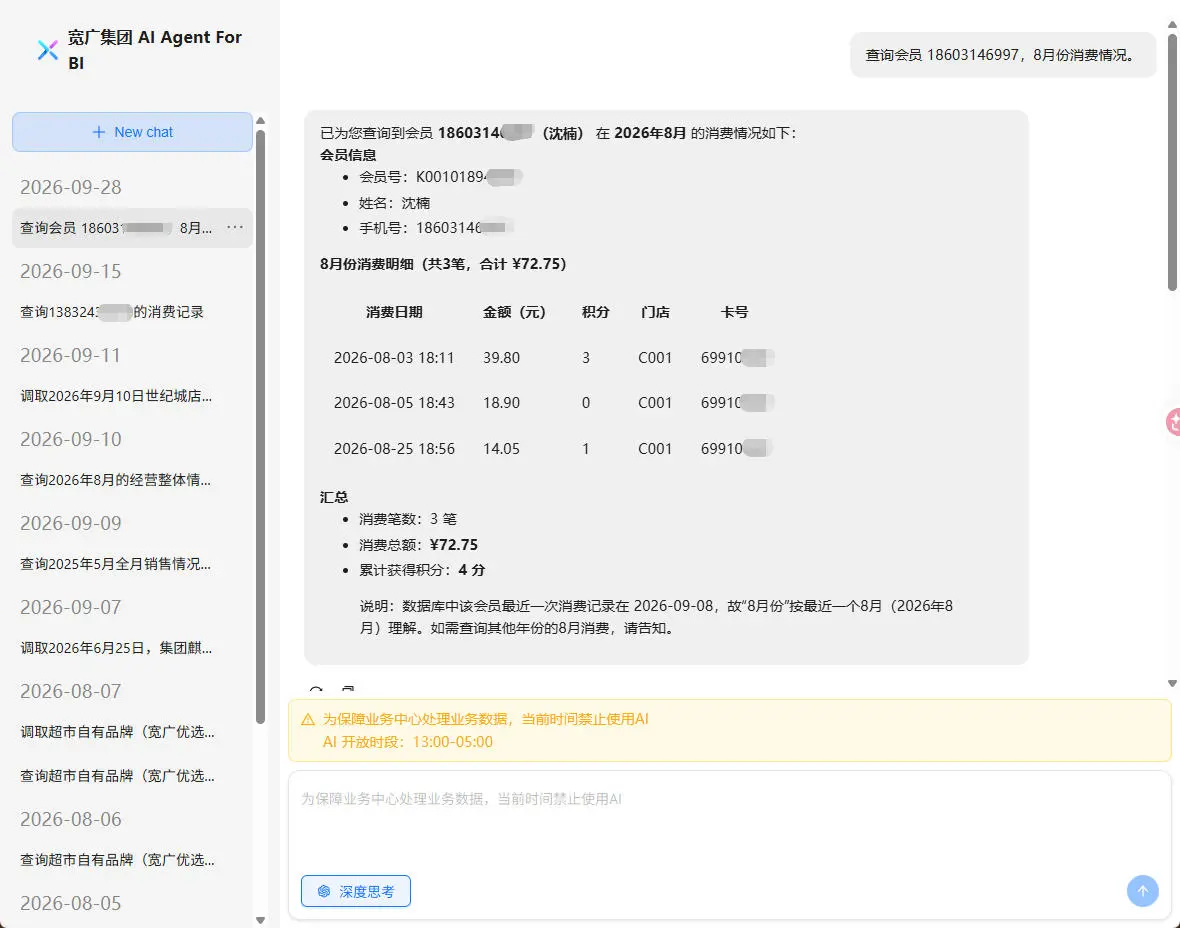
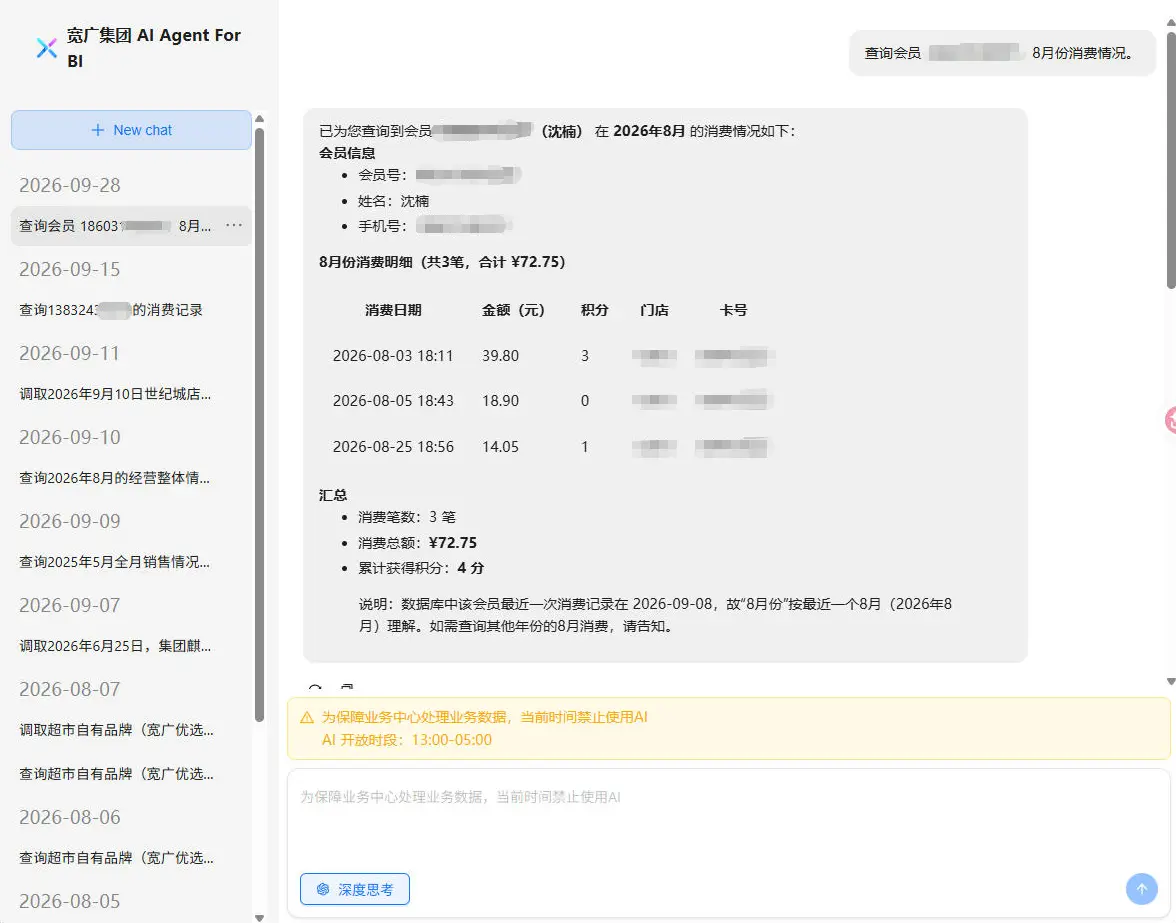
修改文章

diff --git a/content/posts/kuanguang-ai-agent.md b/content/posts/kuanguang-ai-agent.md
@@ -1,6 +1,6 @@
 ---
 title: "我们做了一个“宽广豆包”"
-date: 2026-10-22T00:00:00+08:00
+date: 2026-10-22T13:00:00+08:00
 draft: false
 slug: "kuanguang-ai-agent"
 categories: ["工作"]
